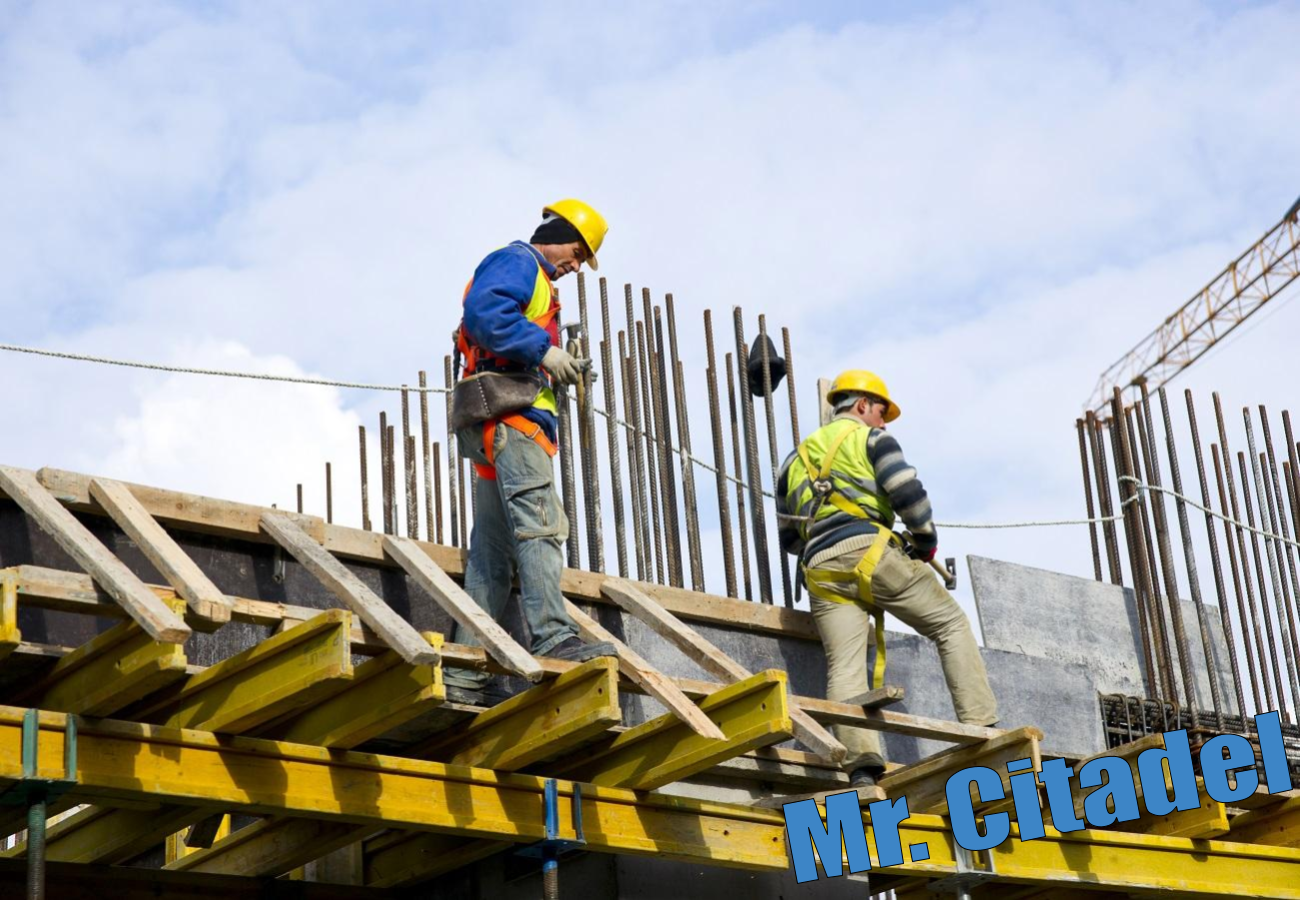
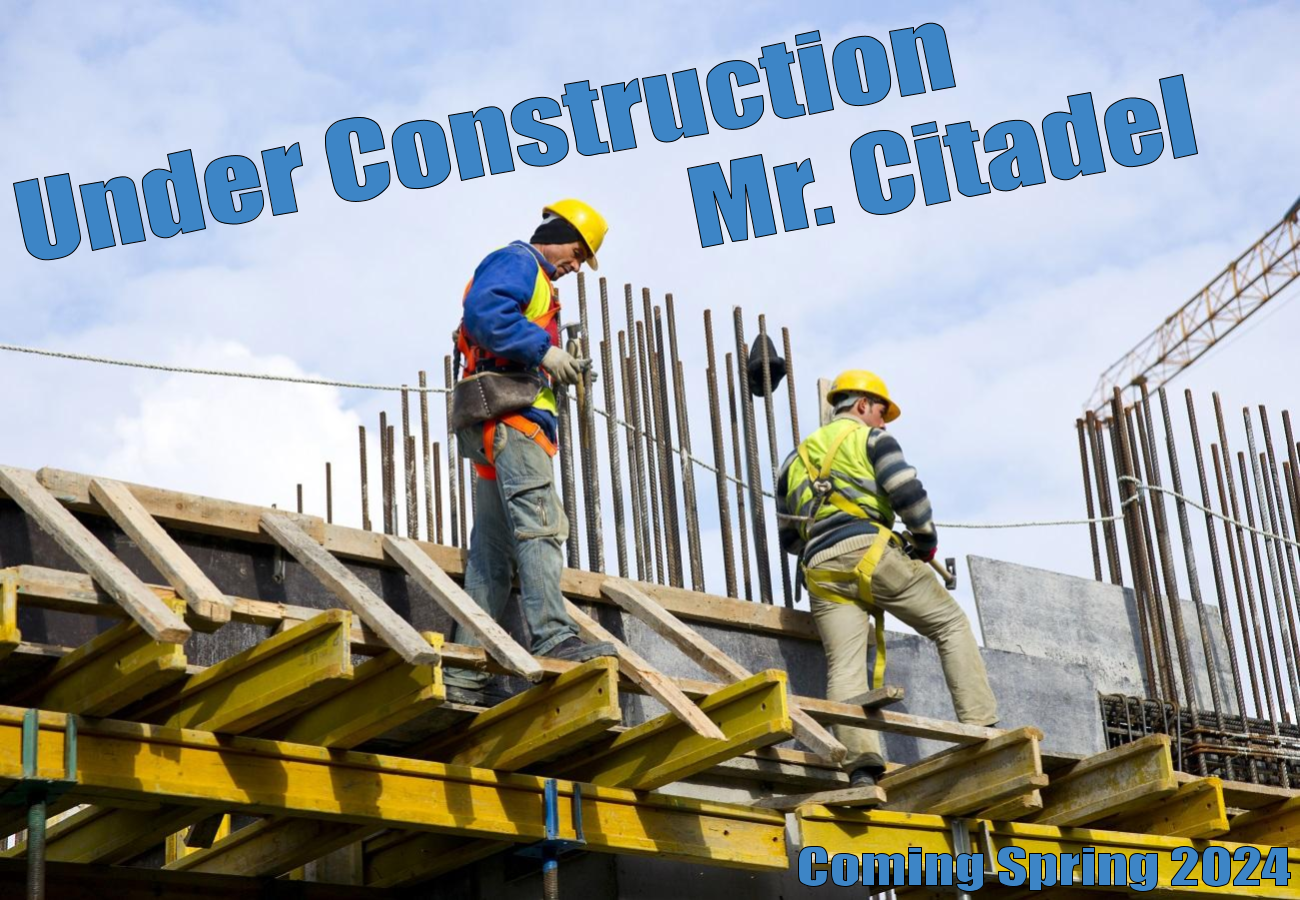
URL Fixes

Changed region(s): [[0.0, 0.0311, 0.9231, 0.3111], [0.5846, 0.7778, 1.0, 0.9956]]

diff --git a/index.html b/index.html
@@ -16,13 +16,14 @@
     @media screen and (max-width: 768px)
     {
         body {margin: 0% -10%; padding: 0% -10%;}
-        .mobilefooter {color: white;}
     }
 
     @media screen and (min-width: 768px)
     {
         .mobile-break {display: none;}
     }
+
+    .mobilefooter {color: white;}
 
     /* TOP TITLE */
     .topTitle { background-color:#006991; color: white; text-align: center; padding: 1.25%; }
@@ -89,13 +90,14 @@
     <!-- TOP NAVIGATION -->
     <div class="topNavigation">
         <a href="index.html">HOME</a>
-        <a href="Admin.html">ADMIN - S1</a>
-        <a href="Provost.html">PROVOST - S2</a>
-        <a href="Operations.html">OPERATIONS - S3</a>
-        <a href="Supply.html">SUPPLY - S4</a>
         <a href="SergeantMajor.html">SERGEANT MAJOR</a>
+        <a href="Admin.html">ADMIN</a>
+        <a href="Provost.html">PROVOST</a>
+        <a href="Operations.html">OPERATIONS</a>
+        <a href="Supply.html">SUPPLY</a>
     
-        <br class="mobile-break">
+        <!--  <br>
+        <br> class="mobile-break"> -->
 
         <div class="dropDown">
             <a class="topLink" href="RegimentalStaff.html">REGI STAFF</a>
@@ -140,7 +142,7 @@
         <table>
             <tr>
                 <td style="width: 70%;">
-                    <a href="" onclick="alert('its Understand Construction!')"><img src="Permanent Photos/Mr. Citadel.png" alt="Coming Soon" style="width: 100%;"></a>
+                    <a href="" onclick="alert('It Is Under Construction!')"><img src="Permanent Photos/Mr. Citadel.png" alt="Coming Soon" style="width: 100%;"></a>
                     
                 </td>
                 <td style="width: 30%;">
@@ -191,15 +193,15 @@
         <table>
             <tr>
                 <td style="width: 25%;"><a href="https://docs.google.com/forms/d/e/1FAIpQLSedDfv112MOiFP-rnZsuvLO9eHR23UM7QGKIUBGgU8c8pQngw/viewform?usp=sf_link"  target="_blank"><img src="Permanent Photos/Photo_4.jpg" style="width: 75%; border: 2px solid; border-color: black;"><h2>Website Improvement Form</h2><p>Want Something Added To The RS Website?</p></a></td>
-                <td style="width: 25%;"><a href="PDFs/RCO/RCO Intent 2023-2024.pdf"  target="_blank"><img src="Permanent Photos/Photo_17.jpg" style="width: 75%; border: 2px solid; border-color: black;"><h2>RCO's Intent</h2><p>C/COL Newsome's leadership intent for SY23-24.</p></a></td>
+                <td style="width: 25%;"><a href="Documents/Regimental Commander/RCO Intent 2023-2024.pdf"  target="_blank"><img src="Permanent Photos/Photo_17.jpg" style="width: 75%; border: 2px solid; border-color: black;"><h2>RCO's Intent</h2><p>C/COL Newsome's leadership intent for SY23-24.</p></a></td>
                 <td style="width: 25%;"><a href="Documents/Sergeant Major/Room Inspection Sheet.pdf"  target="_blank"><img src="Permanent Photos/Photo_14.jpg" style="width: 75%; border: 2px solid; border-color: black;"><h2>Room Inspection Sheet</h2><p>Room Inspection Sheet for Saturday Morning Inspections.</p></a></td>
-                <td style="width: 25%;"><a href="Documents/Sergeant Major/SMI Dress Gray Score Sheet.pdf Score Sheet.pdf"  target="_blank"><img src="Permanent Photos/Photo_17.jpg" style="width: 75%; border: 2px solid; border-color: black;"><h2>Dress Gray Score Sheet</h2><p>Inspection Sheet for Dress Gray SMIs.</p></a></td>
+                <td style="width: 25%;"><a href="Documents/Sergeant Major/SMI Dress Gray Score Sheet.pdf"  target="_blank"><img src="Permanent Photos/Photo_17.jpg" style="width: 75%; border: 2px solid; border-color: black;"><h2>Dress Gray Score Sheet</h2><p>Inspection Sheet for Dress Gray SMIs.</p></a></td>
             </tr>
     
             <tr>
                 <td style="width: 25%;"><a href="https://forms.gle/fmdx97ygcFxwWw4R9"  target="_blank"><img src="Permanent Photos/Photo_12.jpg" style="width: 75%; border: 2px solid; border-color: black;"><h2>Club Poster Form</h2><p>Want Your Club Poster On This Website? Fill Out This Form.</p></a></td>
                 <td style="width: 25%;"><a href=""  target="_blank"><img src="Permanent Photos/Photo_13.jpg" style="width: 75%; border: 2px solid; border-color: black;"><h2 style="color: red">Mess Improvement Form</h2><p>Want Something Brought Up In the Next Mess Council Meeting?</p></a></td>
-                <td style="width: 25%;"><a href=""  target="_blank"><img src="Permanent Photos/Photo_19.jpg" style="width: 75%; border: 2px solid; border-color: black;"><h2 style="color: red">New Guard Order No.23</h2><p>New Gateguard Regulations (Coming Soon).</p></a></td>
+                <td style="width: 25%;"><a href=""  target="_blank"><img src="Permanent Photos/Photo_19.jpg" style="width: 75%; border: 2px solid; border-color: black;"><h2 style="color: red">New Guard Order No.1</h2><p>New Gateguard Regulations (Coming Soon).</p></a></td>
                 <td style="width: 25%;"><a href="Documents/General Resources/Trash Circle.png"  target="_blank"><img src="Permanent Photos/Photo_5.jpg" style="width: 75%; border: 2px solid; border-color: black;"><h2>SMI Trash Circles</h2><p>Printable Trash Circle Cutout For Saturday Inspections.</p></a></td>
                 
             </tr>
